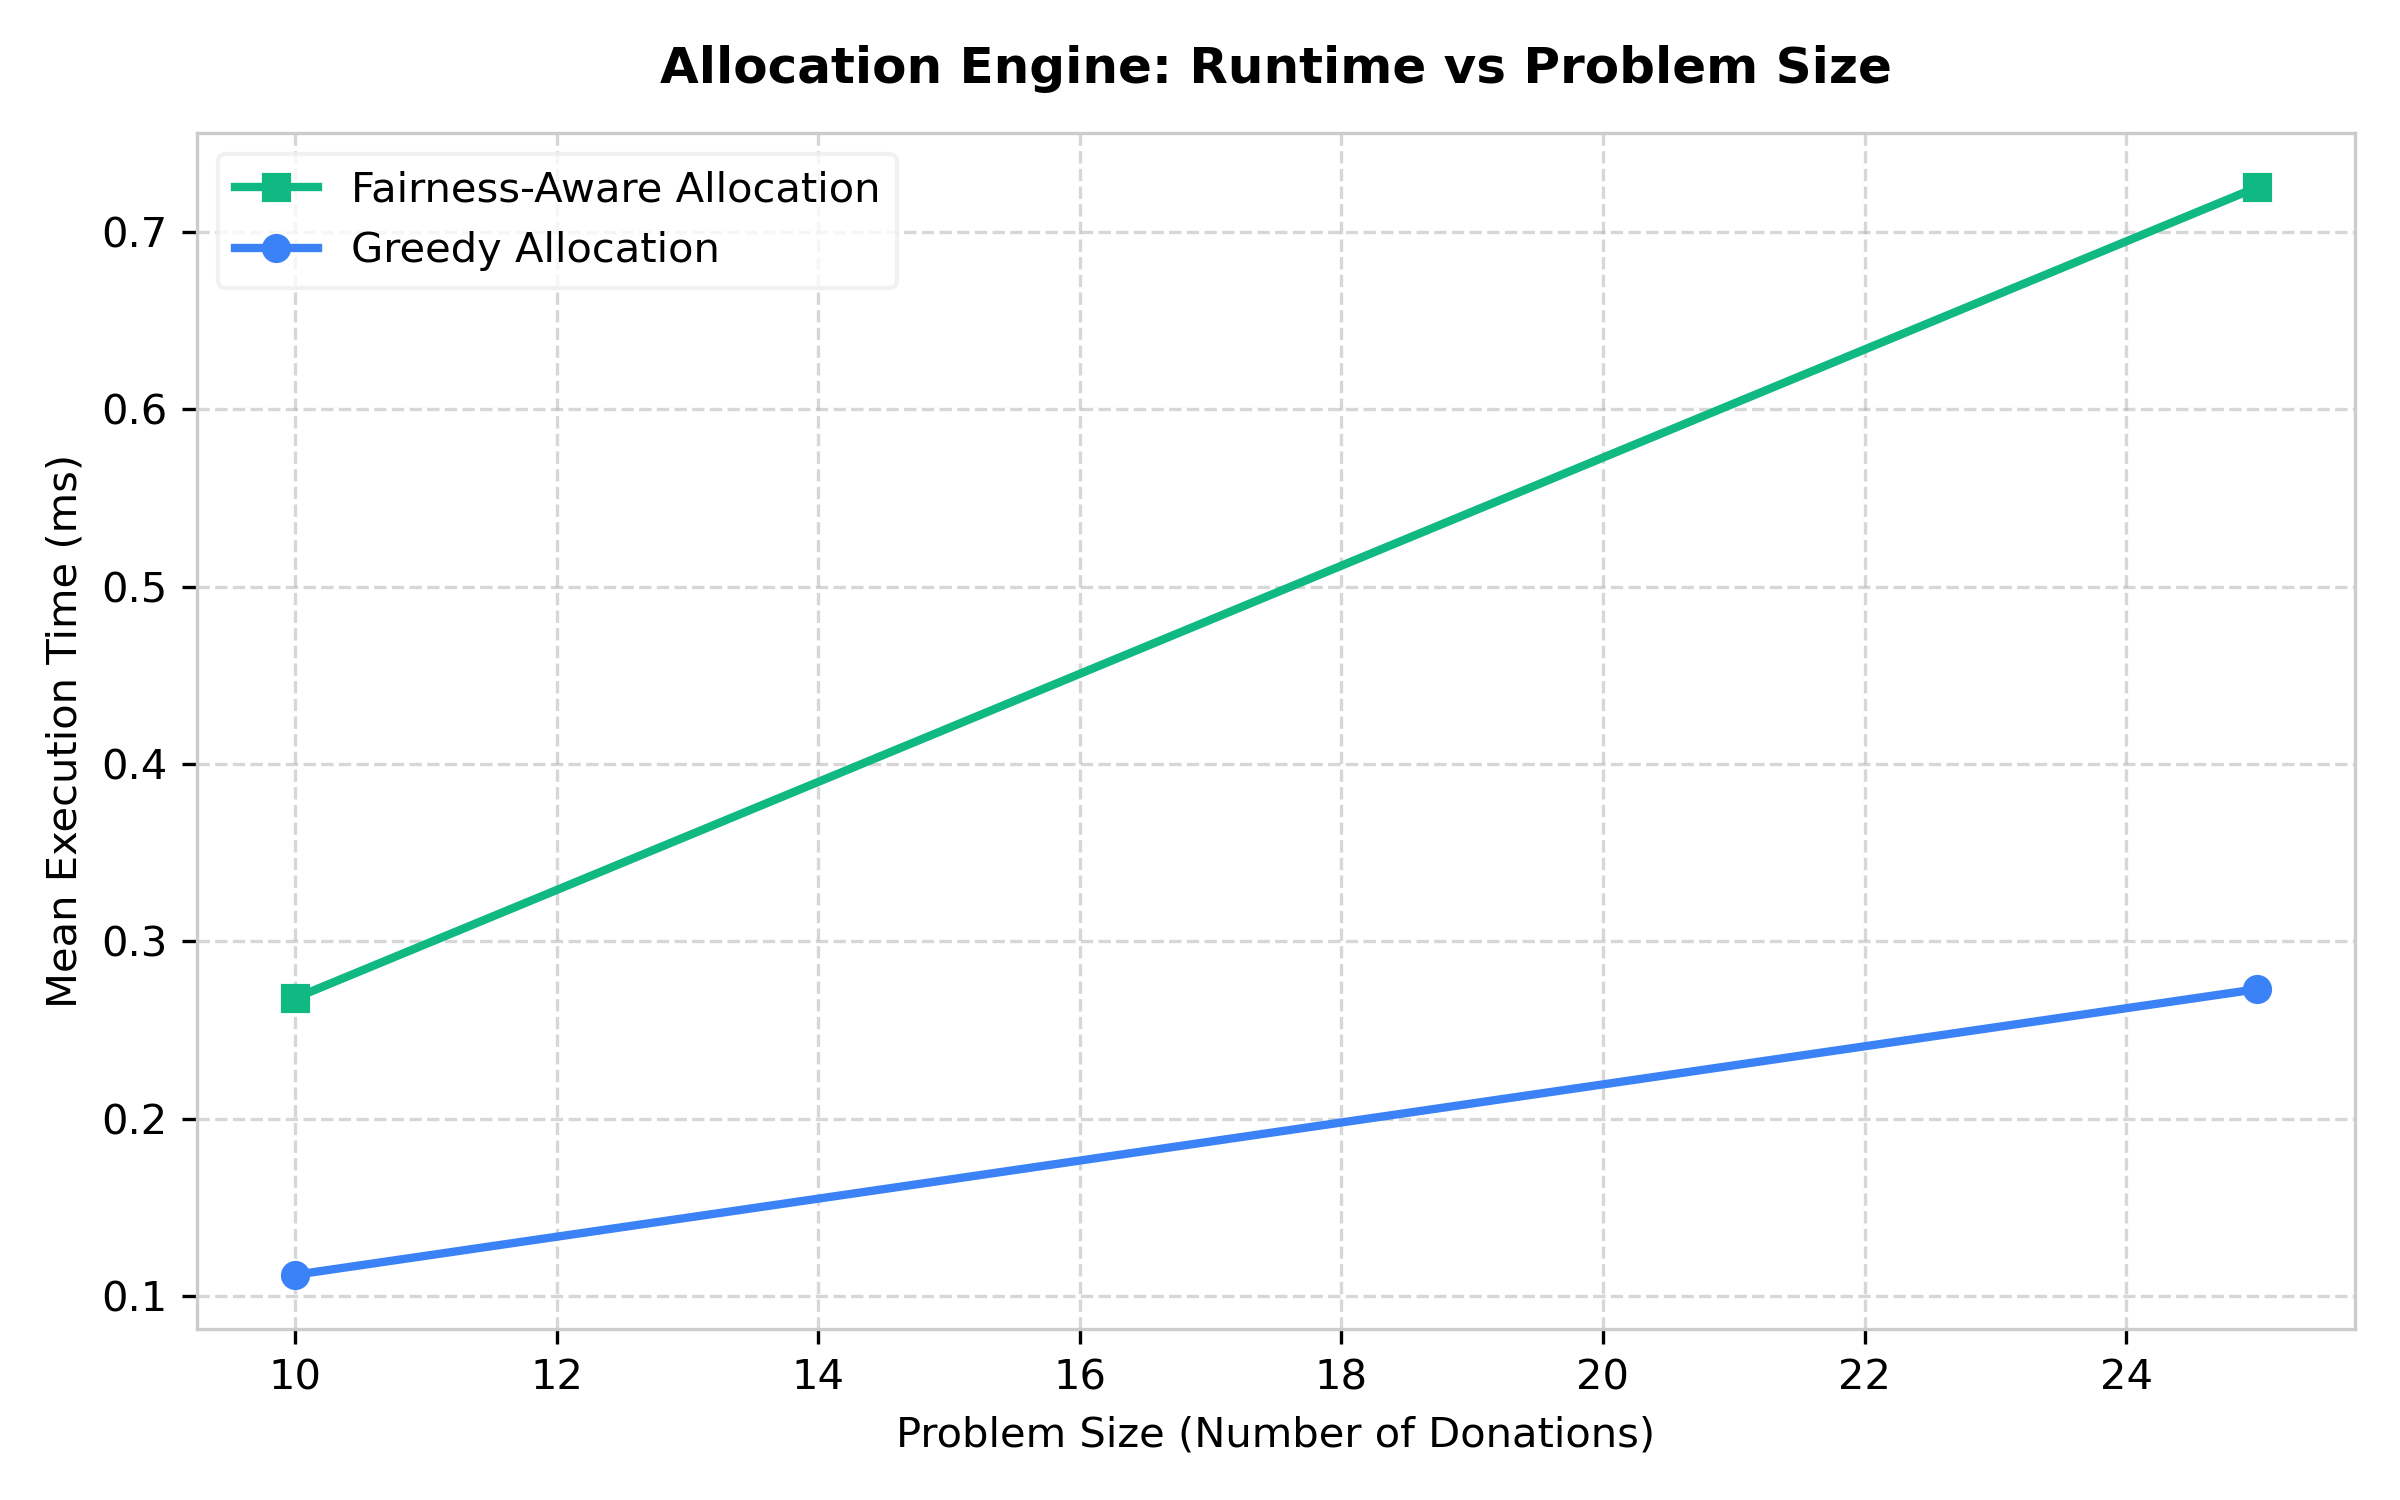
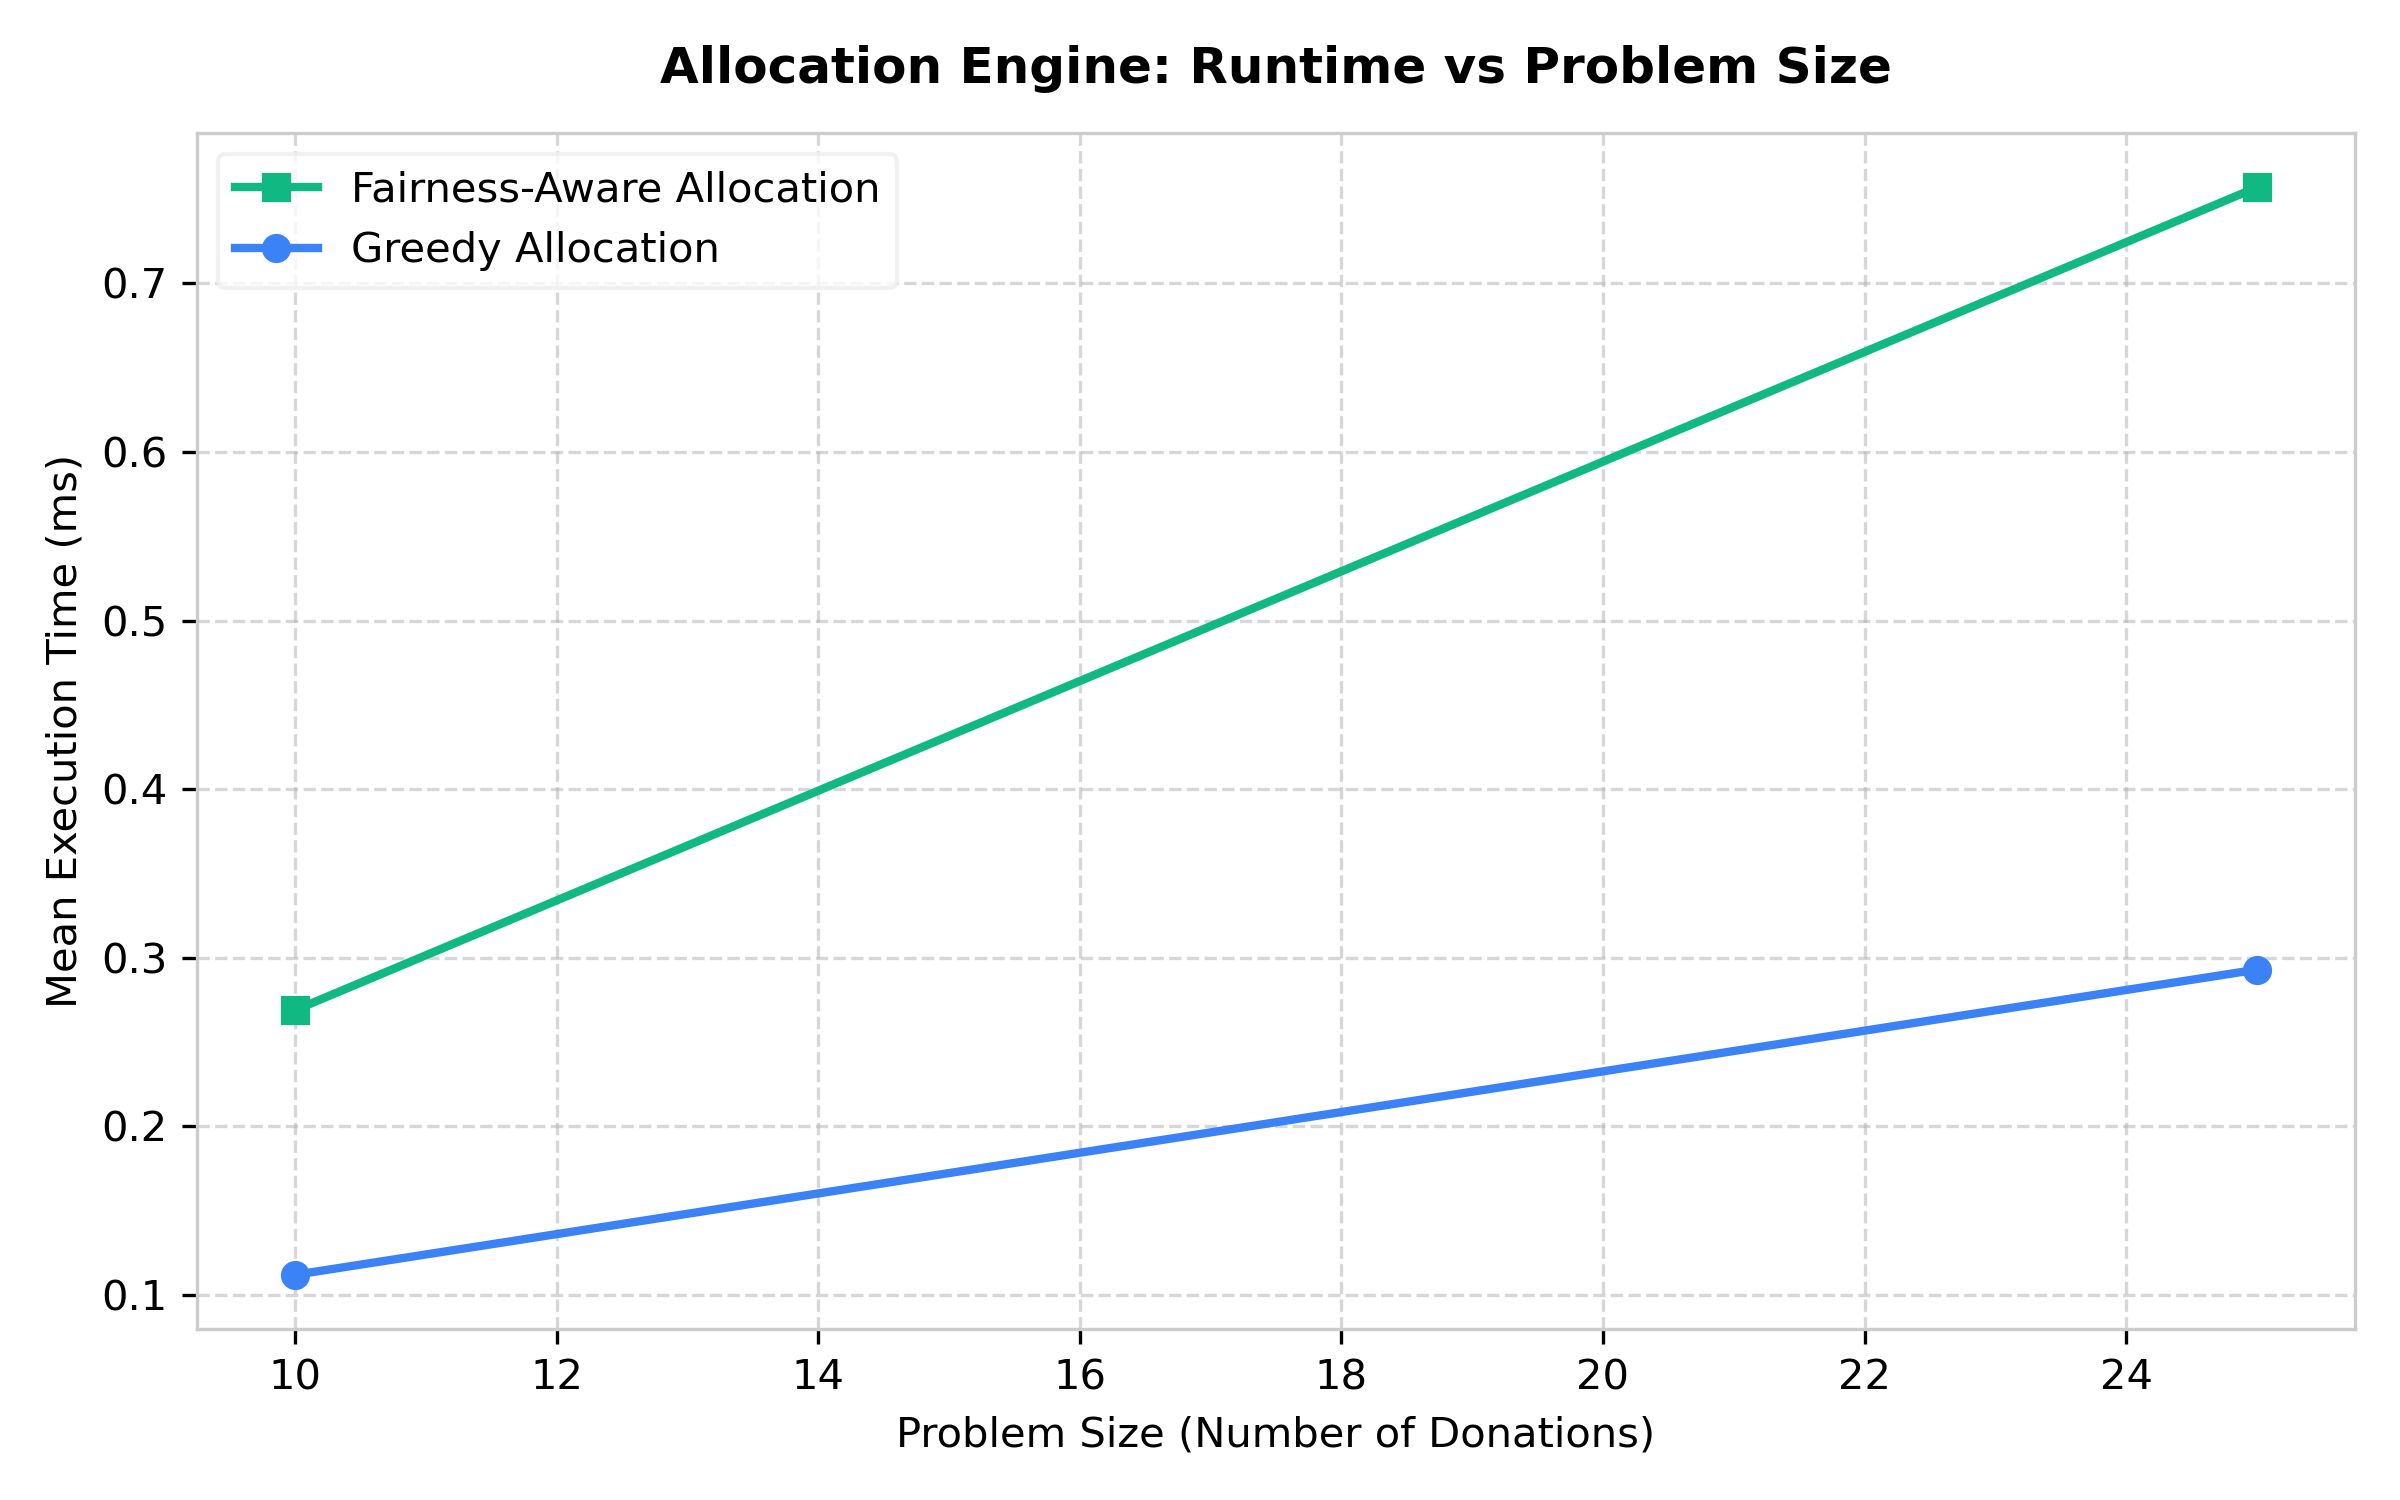
fix(db): resolve alembic configuration and seed script typos for PostgreSQL

diff --git a/alembic/versions/001_initial_schema.py b/alembic/versions/001_initial_schema.py
@@ -1,141 +1,94 @@
-"""Initial schema
-
-Revision ID: 001_initial_schema
-Revises: 
-Create Date: 2026-09-25 10:00:00.000000
-
-"""
-from typing import Sequence, Union
-
 from alembic import op
 import sqlalchemy as sa
 
-# revision identifiers, used by Alembic.
-revision: str = '001_initial_schema'
-down_revision: Union[str, None] = None
-branch_labels: Union[str, Sequence[str], None] = None
-depends_on: Union[str, Sequence[str], None] = None
-
+revision = '001'
+down_revision = None
+branch_labels = None
+depends_on = None
 
 def upgrade() -> None:
     op.create_table(
         'donors',
-        sa.Column('id', sa.String(length=36), nullable=False),
-        sa.Column('name', sa.String(length=255), nullable=False),
-        sa.Column('organization_type', sa.String(length=100), nullable=True),
+        sa.Column('id', sa.String(), primary_key=True),
+        sa.Column('name', sa.String(), nullable=False),
+        sa.Column('organization_type', sa.String(), nullable=True),
         sa.Column('latitude', sa.Float(), nullable=False),
         sa.Column('longitude', sa.Float(), nullable=False),
-        sa.Column('created_at', sa.DateTime(timezone=True), nullable=False),
-        sa.PrimaryKeyConstraint('id')
+        sa.Column('created_at', sa.DateTime(timezone=True), nullable=False)
     )
-    op.create_index(op.f('ix_donors_created_at'), 'donors', ['created_at'], unique=False)
-
     op.create_table(
         'donations',
-        sa.Column('id', sa.String(length=36), nullable=False),
-        sa.Column('donor_id', sa.String(length=36), nullable=False),
-        sa.Column('food_type', sa.String(length=100), nullable=False),
+        sa.Column('id', sa.String(), primary_key=True),
+        sa.Column('donor_id', sa.String(), sa.ForeignKey('donors.id'), nullable=False),
+        sa.Column('food_type', sa.String(), nullable=False),
         sa.Column('quantity_kg', sa.Float(), nullable=False),
-        sa.Column('available_from', sa.DateTime(timezone=True), nullable=False),
-        sa.Column('available_until', sa.DateTime(timezone=True), nullable=False),
-        sa.Column('vequires_refrigeration', sa.Boolean(), nullable=False),
-        sa.Column('created_at', sa.DateTime(timezone=True), nullable=False),
-        sa.ForeignKeyConstraint(['donor_id'], ['donors.id'], ondelete='CASCADE'),
-        sa.PrimaryKeyConstraint('id')
+        sa.Column('available_from', sa.DateTime(timezone=True), nullable=True),
+        sa.Column('available_until', sa.DateTime(timezone=True), nullable=True),
+        sa.Column('requires_refrigeration', sa.Boolean(), nullable=False, server_default='false'),
+        sa.Column('created_at', sa.DateTime(timezone=True), nullable=False)
     )
-    op.create_index(op.f('ix_donations_created_at'), 'donations', ['created_at'], unique=False)
-    op.create_index(op.f('ix_donations_donor_id'), 'donations', ['donor_id'], unique=False)
+    op.create_index('idx_donations_donor_id', 'donations', ['donor_id'])
 
     op.create_table(
         'agencies',
-        sa.Column('id', sa.String(length=36), nullable=False),
-        sa.Column('name', sa.String(length=255), nullable=False),
+        sa.Column('id', sa.String(), primary_key=True),
+        sa.Column('name', sa.String(), nullable=False),
         sa.Column('latitude', sa.Float(), nullable=False),
         sa.Column('longitude', sa.Float(), nullable=False),
         sa.Column('demand_kg', sa.Float(), nullable=False),
-        sa.Column('torage_capacity_kg', sa.Float(), nullable=False),
-        sa.Column('vequires_refrigeration', sa.Boolean(), nullable=False),
-        sa.Column('priority', sa.Integer(), nullable=False),
-        sa.Column('created_at', sa.DateTime(timezone=True), nullable=False),
-        sa.PrimaryKeyConstraint('id')
+        sa.Column('storage_capacity_kg', sa.Float(), nullable=False),
+        sa.Column('requires_refrigeration', sa.Boolean(), nullable=False, server_default='false'),
+        sa.Column('priority', sa.Integer(), nullable=False, server_default='1'),
+        sa.Column('created_at', sa.DateTime(timezone=True), nullable=False)
     )
-    op.create_index(op.f('ix_agencies_created_at'), 'agencies', ['created_at'], unique=False)
 
     op.create_table(
         'volunteers',
-        sa.Column('id', sa.String(length=36), nullable=False),
-        sa.Column('name', sa.String(length=255), nullable=False),
+        sa.Column('id', sa.String(), primary_key=True),
+        sa.Column('name', sa.String(), nullable=False),
         sa.Column('latitude', sa.Float(), nullable=False),
         sa.Column('longitude', sa.Float(), nullable=False),
         sa.Column('capacity_kg', sa.Float(), nullable=False),
-        sa.Column('has_refrigeration', sa.Boolean(), nullable=False),
-        sa.Column('available_from', sa.DateTime(timezone=True), nullable=False),
-        sa.Column('available_until', sa.DateTime(timezone=True), nullable=False),
-        sa.Column('current_workload_kg', sa.Float(), nullable=False),
-        sa.Column('max_travel_distance_km', sa.Float(), nullable=False),
-        sa.Column('created_at', sa.DateTime(timezone=True), nullable=False),
-        sa.PrimaryKeyConstraint('id')
+        sa.Column('has_refrigeration', sa.Boolean(), nullable=False, server_default='false'),
+        sa.Column('available_from', sa.DateTime(timezone=True), nullable=True),
+        sa.Column('available_until', sa.DateTime(timezone=True), nullable=True),
+        sa.Column('current_workload_kg', sa.Float(), nullable=False, server_default='0.0'),
+        sa.Column('max_travel_distance_km', sa.Float(), nullable=False, server_default='15.0'),
+        sa.Column('created_at', sa.DateTime(timezone=True), nullable=False)
     )
-    op.create_index(op.f('ix_volunteers_created_at'), 'volunteers', ['created_at'], unique=False)
 
     op.create_table(
         'rescue_requests',
-        sa.Column('id', sa.String(length=36), nullable=False),
-        sa.Column('donation_id', sa.String(length=36), nullable=False),
-        sa.Column('agency_id', sa.String(length=36), nullable=False),
+        sa.Column('id', sa.String(), primary_key=True),
+        sa.Column('donation_id', sa.String(), sa.ForeignKey('donations.id'), nullable=False),
+        sa.Column('agency_id', sa.String(), sa.ForeignKey('agencies.id'), nullable=False),
         sa.Column('requested_quantity_kg', sa.Float(), nullable=False),
-        sa.Column('pickup_deadline', sa.DateTime(timezone=True), nullable=False),
-        sa.Column('status', sa.String(length=50), nullable=False),
-        sa.Column('created_at', sa.DateTime(timezone=True), nullable=False),
-        sa.ForeignKeyConstraint(['agency_id'], ['agencies.id'], ondelete='CASCADE'),
-        sa.ForeignKeyConstraint(['donation_id'], ['donations.id'], ondelete='CASCADE'),
-        sa.PrimaryKeyConstraint('id')
+        sa.Column('pickup_deadline', sa.DateTime(timezone=True), nullable=True),
+        sa.Column('status', sa.String(), nullable=False, server_default='pending'),
+        sa.Column('created_at', sa.DateTime(timezone=True), nullable=False)
     )
-    op.create_index(op.f('ix_rescue_requests_agency_id'), 'rescue_requests', ['agency_id'], unique=False)
-    op.create_index(op.f('ix_rescue_requests_created_at'), 'rescue_requests', ['created_at'], unique=False)
-    op.create_index(op.f('ix_rescue_requests_donation_id'), 'rescue_requests', ['donation_id'], unique=False)
-    op.create_index(op.f('ix_rescue_requests_status'), 'rescue_requests', ['status'], unique=False)
+    op.create_index('idx_rescue_requests_status', 'rescue_requests', ['status'])
 
     op.create_table(
         'allocation_records',
-        sa.Column('id', sa.String(length=36), nullable=False),
-        sa.Column('donation_id', sa.String(length=36), nullable=False),
-        sa.Column('agency_id', sa.String(length=36), nullable=False),
-        sa.Column(*quantity_kg', sa.Float(), nullable=False),
-        sa.Column('algorithm', sa.String(length=50), nullable=False),
-        sa.Column('created_at', sa.DateTime(timezone=True), nullable=False),
-        sa.ForeignKeyConstraint(['agency_id'], ['agencies.id'], ondelete='CASCADE'),
-        sa.ForeignKeyConstraint(['donation_id'], ['donations.id'], ondelete='CASCADE'),
-        sa.PrimaryKeyConstraint('id')
+        sa.Column('id', sa.String(), primary_key=True),
+        sa.Column('donation_id', sa.String(), sa.ForeignKey('donations.id'), nullable=False),
+        sa.Column('agency_id', sa.String(), sa.ForeignKey('agencies.id'), nullable=False),
+        sa.Column('quantity_kg', sa.Float(), nullable=False),
+        sa.Column('algorithm', sa.String(), nullable=False),
+        sa.Column('created_at', sa.DateTime(timezone=True), nullable=False)
     )
-    op.create_index(op.f('ix_allocation_records_agency_id'), 'allocation_records', ['agency_id'], unique=False)
-    op.create_index(op.f('ix_allocation_records_created_at'), 'allocation_records', ['created_at'], unique=False)
-    op.create_index(op.f('ix_allocation_records_donation_id'), 'allocation_records', ['donation_id'], unique=False)
 
     op.create_table(
         'dispatch_records',
-        sa.Column('id', sa.String(length=36), nullable=False),
-        sa.Column('rescue_request_id', sa.String(length=36), nullable=False),
-        sa.Column('volunteer_id', sa.String(length=36), nullable=False),
-        sa.Column('algorithm', sa.String(length=50), nullable=False),
+        sa.Column('id', sa.String(), primary_key=True),
+        sa.Column('rescue_request_id', sa.String(), sa.ForeignKey('rescue_requests.id'), nullable=False),
+        sa.Column('volunteer_id', sa.String(), sa.ForeignKey('volunteers.id'), nullable=False),
+        sa.Column('algorithm', sa.String(), nullable=False),
         sa.Column('distance_km', sa.Float(), nullable=False),
-        sa.Column('created_at', sa.DateTime(timezone=True), nullable=False),
-        sa.Float(),
-        sa.ForeignKeyConstraint(['rescue_request_id'], ['rescue_requests.id'], ondelete='CASCADE'),
-        sa.ForeignKeyConstraint(['volunteer_id'], ['volunteers.id"], ondelete='CASCADE'),
-        sa.PrimaryKeyConstraint('id')
+        sa.Column('created_at', sa.DateTime(timezone=True), nullable=False)
     )
-    op.create_index(op.f('ix_dispatch_records_algorithm'), 'dispatch_records', ['algorithm'], unique=False)
-    op.create_index(op.f('ix_dispatch_records_created_at'), 'dispatch_records', ['created_at'], unique=False)
-    op.create_index(op.f('ix_dispatch_records_rescue_request_id'), 'dispatch_records', ['rescue_request_id'], unique=False)
-    op.create_index(op.f('ix_dispatch_records_volunteer_id'), 'dispatch_records', ['volunteer_id'], unique=False)
-
 
 def downgrade() -> None:
-    op.drop_table('dispatch_records')
-    op.drop_table('allocation_records')
-    op.drop_table('rescue_requests')
-    op.drop_table('volunteers')
-    op.drop_table('agencies')
-    op.drop_table('donations')
-    op.drop_table('donors')
+    for tbl in ['dispatch_records', 'allocation_records', 'rescue_requests', 'volunteers', 'agencies', 'donations', 'donors']:
+        op.drop_table(tbl)

diff --git a/alembic/env.py b/alembic/env.py
@@ -35,7 +35,7 @@ def run_migrations_offline() -> None:
 
 
 def run_migrations_online() -> None:
-    configuration = config.get_section(config.config_iji_section, {})
+    configuration = config.get_section(config.config_ini_section, {})
     configuration["sqlalchemy.url"] = get_url()
     connectable = engine_from_config(
         configuration,

diff --git a/scripts/seed_database.py b/scripts/seed_database.py
@@ -30,7 +30,7 @@ def seed():
             print("Database already contains data. Skipping seed.")
             return
 
-        now = datetime.no|(timezone.utc)
+        now = datetime.now(timezone.utc)
 
         # 1. Donors (3)
         donors = [
